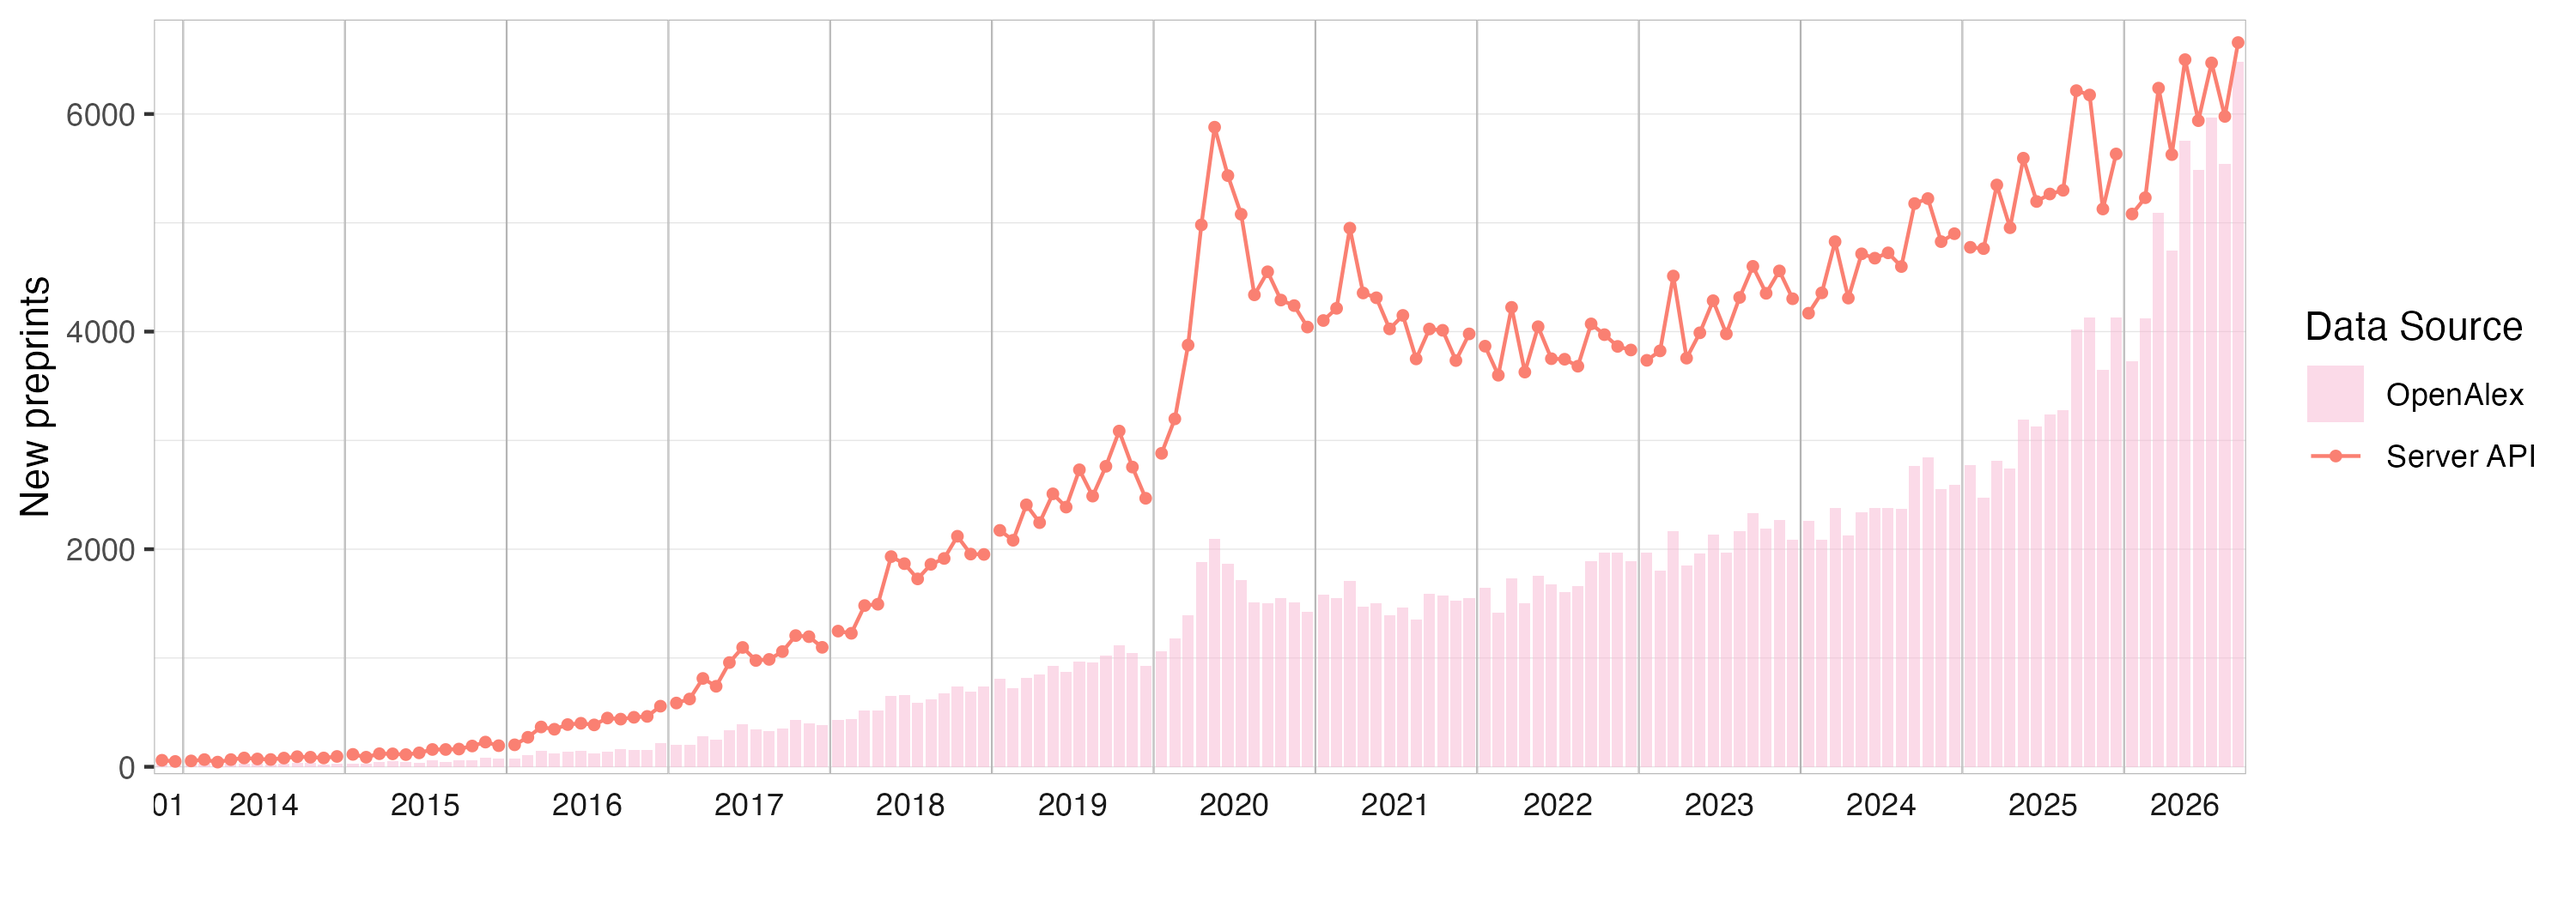
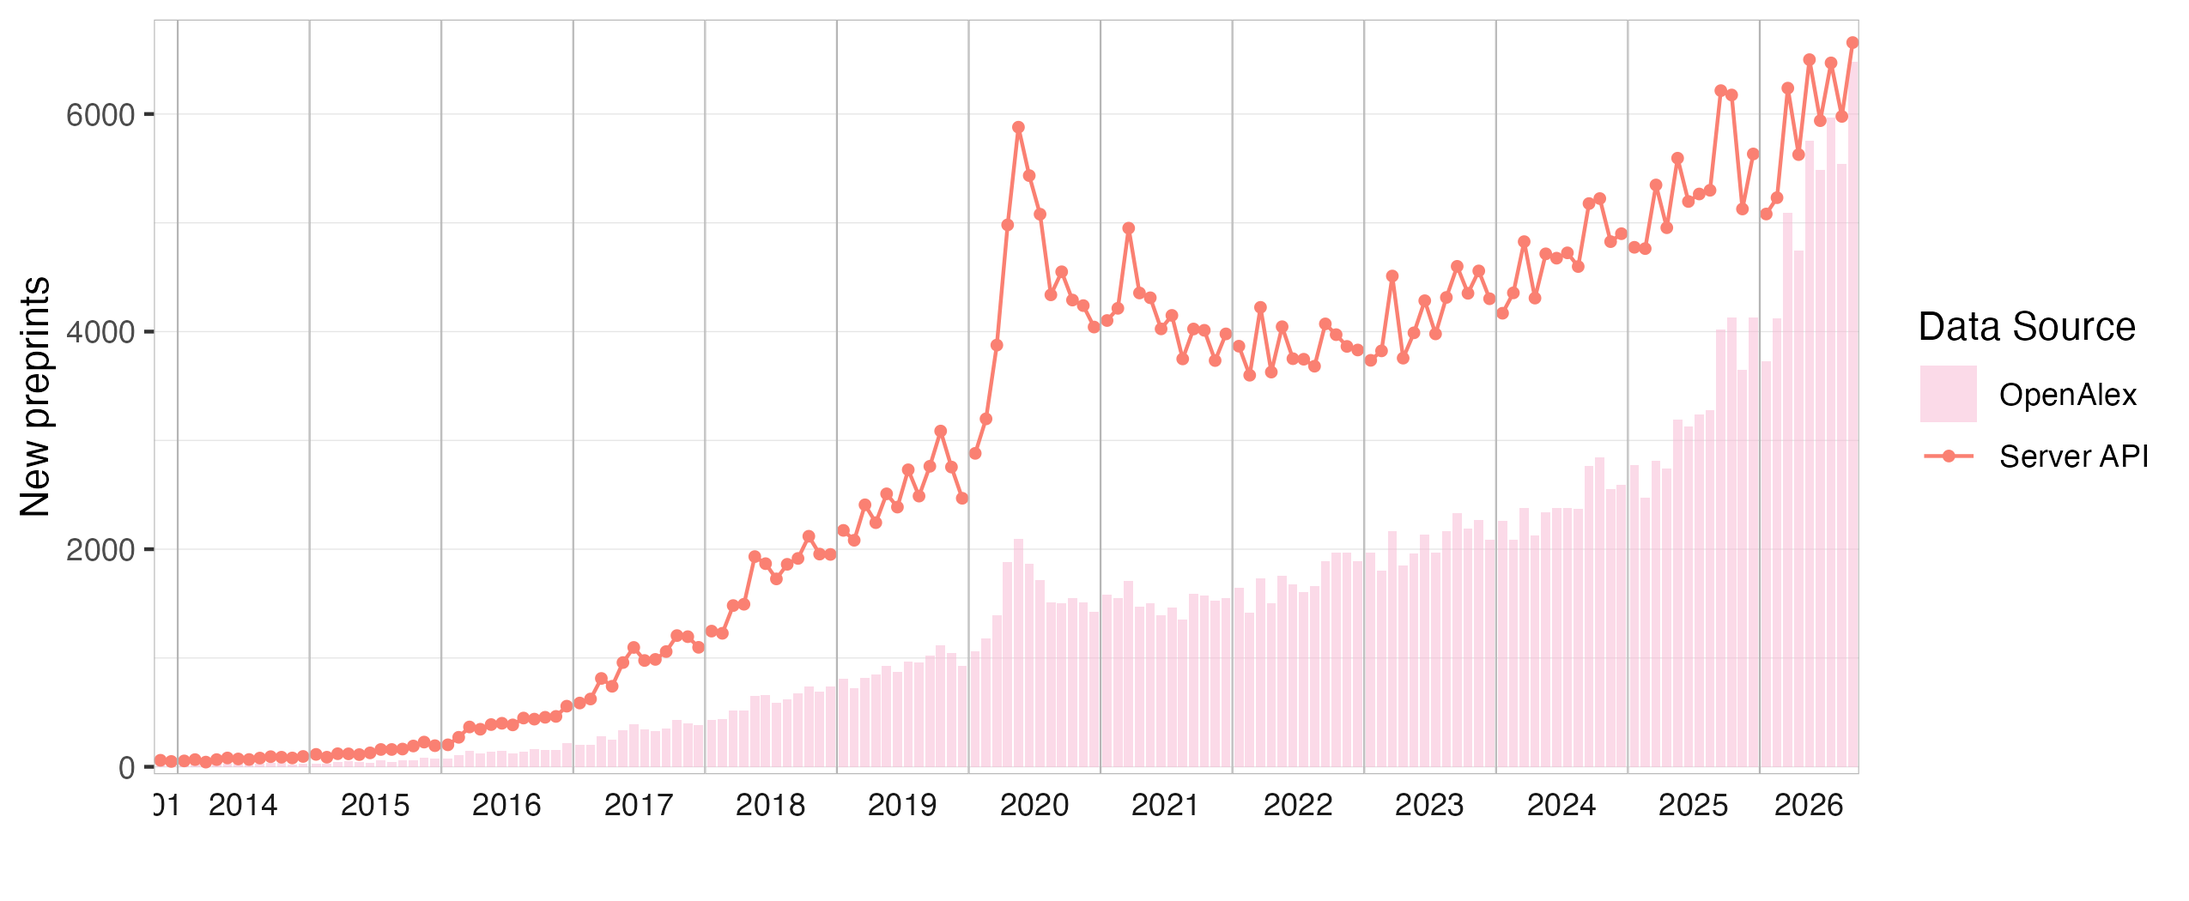
update README

diff --git a/README.md b/README.md
@@ -1,1 +1,117 @@
-# ITAL-column
+# ITAL Column
+
+This GitHub repo contains data, code, analysis and figures supporting a [ITAL & Feature Column](https://ital.corejournals.org/index.php/ital/ital-and-column).
+
+> Li X, Chim M. From Preprint Awareness to Engagement: Expanding Library Roles. Information Technology and Libraries (ITAL). Forthcoming. [DOI to be added]
+
+The analysis focuses on examining growth across selected preprint servers over the past 25 years. As a side analysis, we also compare preprint data across different data sources.
+
+<br>
+
+
+# Analysis Overview
+
+## Preprint Growth Analysis
+
+* Retrieve records for selected preprint servers from OpenAlex
+* Save dated snapshots of the retrieved record
+* Clean and aggregate the records by server, year, and month
+* Visualize changes in preprint volume over time
+
+
+## Data source comparison
+
+Comparing OpenAlex counts for bioRxiv and medRxiv with counts reported directly by the bioRxiv and medRxiv APIs. [Add a section elaboratign on the discrepency we found and why we are suddenly looking into this? Comment on potentially exploring other sources e.g., Crossref]
+
+
+# Repository Structure
+
+```text
+├── README.md
+├── LICENSE
+├── ITAL-column.Rproj
+├── code/                 # code used for analysis     
+├── data_OpenAlex/        # OpenAlex snapshots organized by preprint server
+├── data_saved/           # monthly counts saved from the bioRxiv and medRxiv APIs
+├── data_temp/            # intermediate data files; excluded from version control
+├── outputs_stats/        # processed monthly counts used for plotting
+└── outputs_graphs/       # figures generated from the analysis
+```
+
+## Analysis Scripts
+
+* `01-retrieve-data.R`: Retrieves OpenAlex records using DOI prefixes associated with selected preprint servers and saves the results as dated RDS files
+* `02-process-data.R`: Combines the saved records, performs server-specific cleaning and validation, and calculates monthly counts
+* `03-graph-data.R`: Combines the monthly counts and creates the preprint growth figure
+* `04-compare-data-source.R`: Retrieves monthly counts from the bioRxiv and medRxiv APIs and compares them with OpenAlex counts.
+
+OpenAlex records are retrieved in yearly, quarterly, or monthly segments. Breaking requests into smaller periods makes large API queries more manageable and creates identifiable snapshots of the source data.
+
+<br>
+
+
+# Methodological Decisions and Limitations
+
+## Why use OpenAlex? 
+
+Preprint servers differ in their APIs, available metadata, and methods of identifying records. OpenAlex offers a common metadata source that allows a broadly consisten retrieval and aggregation workflow to be applied across mulitple preprint servers. Using a common data source improves comparability, but it does **not** ensure complete or equally current coverage of different platforms.
+
+
+## Why these preprint servers?
+
+The current OpenAlex workflow examines records from [TBA]. The script also document a few platforms (e.g., ChinaRxiv and AfriArXiv) that could not be included using the same DOI-based method. These preprint servers were selected [because TBA]. This project should not be interpreted as a comprehensive inventory of all preprint servers. [Link to preprint server inventories]
+
+
+## Identifying records by DOI prefix
+
+Our preliminary exploration showed that filtering OpenAlex records by work type alone could omit relevant records because not every preprint is classified as such. Records were therefore retrieved using DOI prefixes associated with selected preprint servers, followed by server specific cleaning when necessary.
+
+We recognize that this methods has several limitations: (1) a DOI prefix may cover publications other than preprints, (2) a preprint server may use more than one DOI prefix, (3) a platform may change DOI prefix over time, (4) some platforms does not assign DOI to preprints.
+
+DOI-prefix retrieval should therefore be viewed as a reproducible approximation, rather than a complete census of preprints.
+
+
+## Why preserve data snapshots?
+
+OpenAlex records, classifications, and coverage can change over time. Saving the retrieved records makes it possible to inspect the data underlying the published analysis even if later API queries return different results. 
+
+The OpenAlex data used in the current analysis were retrieved in late Oct 2026. More specific retrieval dates are recorded in the analysis script. 
+
+Monthly counts obtained from the bioRxiv and medRxiv APIs are also saved in `data_saved/` so the comparison does not depend entirely on live API responses.
+
+
+## Preprint versions and duplicate records
+
+Preprint platforms handle versioning differently. Some retain one DOI across multiple versions, while others may create a separate record or identifiers.
+
+This analysis counts the OpenAlex records returned by the specified DOI-prefix queries. It does **not** reconstruct version histories or attempt to determine if records represent different versions of the same manuscript. Counts should therefore be interpreted as records captured by the retrieval strategy, rather than definitive coutns of unique manuscript.
+
+
+## Difference between OpenAlex and platform counts
+
+During our analysis we discovered that OpenAlex counts differs quite significantly from totals reported by individual preprint servers. 
+
+[ADD MORE AFTER INVESTIGATION]
+
+
+## Publication dates
+
+Some OpenAlex record contains dates that may be approximate or assigned at a broader level than the actual posting date. This is particularly important when interpreting monthly trend. For example, a large proportion of the retrieved SSRN records use Jan 1 as the publication date, which may indicate year-level or default date metadata rather than the actual posting date.
+
+<br>
+
+
+# Reproducing the analysis
+
+ADD info about packages, OpenAlex API, 
+
+OpenAlex is continuously updated, so newly retrieved records may not produce exactly the same counts as the archived data. The saved snapshots document the records used for this analysis.
+
+<br>
+
+
+# License
+
+The code in this repository is available under the [BSD 3 License](LICENSE.md).
+
+Data retrieved from OpenAlex, bioRxiv, medRxiv, and other sources may be subject to the terms and licenses of their respective providers.
